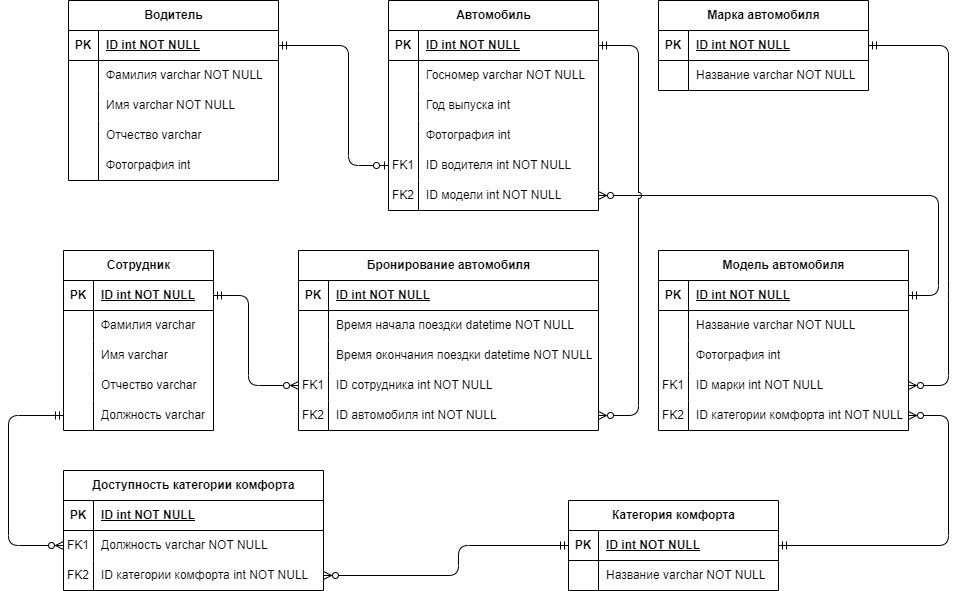
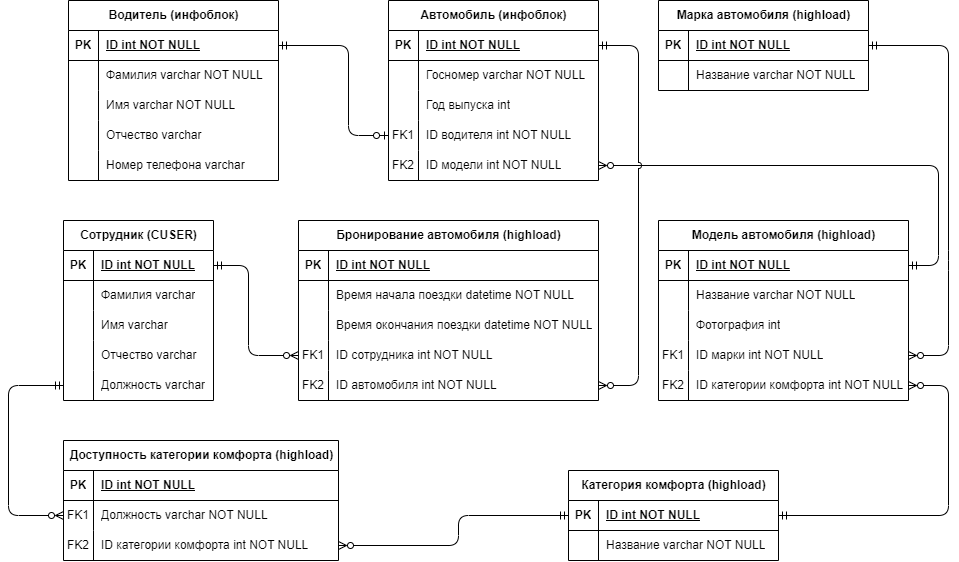
Добавление через миграцию хайлоад-блока для категории комфорта; указание в диаграмме типов (инфоблоки или хайлоад-блоки) сущностей.

diff --git a/test-task/php_interface/migrations/Version20230726141301.php b/test-task/php_interface/migrations/Version20230726141301.php
@@ -18,7 +18,7 @@ class Version20230726141301 extends Version
     {
         $helper = $this->getHelperManager();
         /*
-         * Добавление хайлоад-блока для марок автомобилей.
+         * Добавить хайлоад-блок для марок автомобилей.
          */
         $carBrandsHlBlockId = $this->carBrandUp($helper);
         /*
@@ -29,6 +29,10 @@ class Version20230726141301 extends Version
          * Добавить инфоблок водителей.
          */
         $driversIblockId = $this->driversUp($helper);
+        /*
+         * Добавить категорию комфорта .
+         */
+        $combofrtabilityHlBlockId = $this->comfortabilityUp($helper);
     }
 
     /**
@@ -37,14 +41,18 @@ class Version20230726141301 extends Version
     public function down()
     {
         $helper = $this->getHelperManager();
-        /*
-         * Удалить хайлоад-блок марок автомобилей.
+        /**
+         * Удалить категорию комфорта.
          */
-        $this->carBrandDown($helper);
+        $this->comfortabilityDown($helper);
         /*
          * Удалить инфоблок водителей.
          */
         $this->driversDown($helper);
+        /*
+         * Удалить хайлоад-блок марок автомобилей.
+         */
+        $this->carBrandDown($helper);
     }
 
     /**
@@ -63,7 +71,7 @@ class Version20230726141301 extends Version
             'HLBLOCK_' . $carBrandsHlBlockId,
             [
                 [
-                    'FIELD_NAME' => 'UF_NAME', 
+                    'FIELD_NAME' => 'UF_CAR_BRAND_NAME', 
                     'USER_TYPE_ID' => 'string',
                     'MANDATORY' => 'Y',
                     'EDIT_FORM_LABEL' => Array('ru' => 'Название', 'en' => 'Brand name'),
@@ -73,7 +81,7 @@ class Version20230726141301 extends Version
                     'HELP_MESSAGE' => Array('ru' => '', 'en' => '')
                 ],
                 [
-                    'FIELD_NAME' => 'UF_LOGO', 
+                    'FIELD_NAME' => 'UF_CAR_BRAND_LOGO', 
                     'USER_TYPE_ID' => 'file',
                     'MANDATORY' => 'N',
                     'EDIT_FORM_LABEL' => Array('ru' => 'Логотип', 'en' => 'Brand logo'),
@@ -179,6 +187,37 @@ class Version20230726141301 extends Version
     }
 
     /**
+     * Добавить справочник категории комфорта.
+     * @param HelperManager $helper Менеджер для выполнения действий миграции.
+     * @return int Идентификатор созданного хайлоад-блока.
+     */
+    private function comfortabilityUp($helper)
+    {
+        $combofrtabilityHlBlockId = $helper->Hlblock()->saveHlblock([
+            'NAME' => 'ComfortabilityCategory',
+            'TABLE_NAME' => 'hl_comfortability_category',
+        ]);
+
+        $helper->UserTypeEntity()->addUserTypeEntitiesIfNotExists(
+            'HLBLOCK_' . $combofrtabilityHlBlockId,
+            [
+                [
+                    'FIELD_NAME' => 'UF_COMFORTABILITY_CATEGORY_NAME',
+                    'USER_TYPE_ID' => 'string',
+                    'MANDATORY' => 'Y',
+                    'EDIT_FORM_LABEL' => Array('ru' => 'Категория комфорта', 'en' => 'Comfortability class'),
+                    'LIST_COLUMN_LABEL' => Array('ru' => 'Категория комфорта', 'en' => 'Comfortability class'),
+                    'LIST_FILTER_LABEL' => Array('ru' => 'Категория комфорта', 'en' => 'Comfortability class'),
+                    'ERROR_MESSAGE' => Array('ru' => '', 'en' => ''),
+                    'HELP_MESSAGE' => Array('ru' => '', 'en' => '')
+                ]
+            ]
+        );
+
+        return $combofrtabilityHlBlockId;
+    }
+
+    /**
      * Удалить хайлоад-блок марки автомобиля.
      * @param HelperManager $helper Менеджер для выполнения действий миграции.
      */
@@ -189,8 +228,8 @@ class Version20230726141301 extends Version
         $helper->UserTypeEntity()->deleteUserTypeEntitiesIfExists(
             'HLBLOCK_' . $carBrandsHlBlockId,
             [
-                'UF_NAME',
-                'UF_LOGO'
+                'UF_CAR_BRAND_NAME',
+                'UF_CAR_BRAND_LOGO'
             ]
         );
         $helper->Hlblock()->deleteHlblock($carBrandsHlBlockId);
@@ -203,5 +242,22 @@ class Version20230726141301 extends Version
     private function driversDown($helper)
     {
         $result = $helper->Iblock()->deleteIblockIfExists('job_cars_drivers');
+    }
+
+    /**
+     * Удаление хайлоад-блока с категориями комфорта.
+     * @param HelperManager $helper Менеджер для выполнения действий миграции.
+     */
+    private function comfortabilityDown($helper)
+    {
+        $combofrtabilityHlBlockId = $helper->Hlblock()->getHlblockIdIfExists('ComfortabilityCategory');
+       
+        $helper->UserTypeEntity()->deleteUserTypeEntitiesIfExists(
+            'HLBLOCK_' . $combofrtabilityHlBlockId,
+            [
+                'UF_COMFORTABILITY_CATEGORY_NAME'
+            ]
+        );
+        $helper->Hlblock()->deleteHlblock($combofrtabilityHlBlockId);
     }
 }
